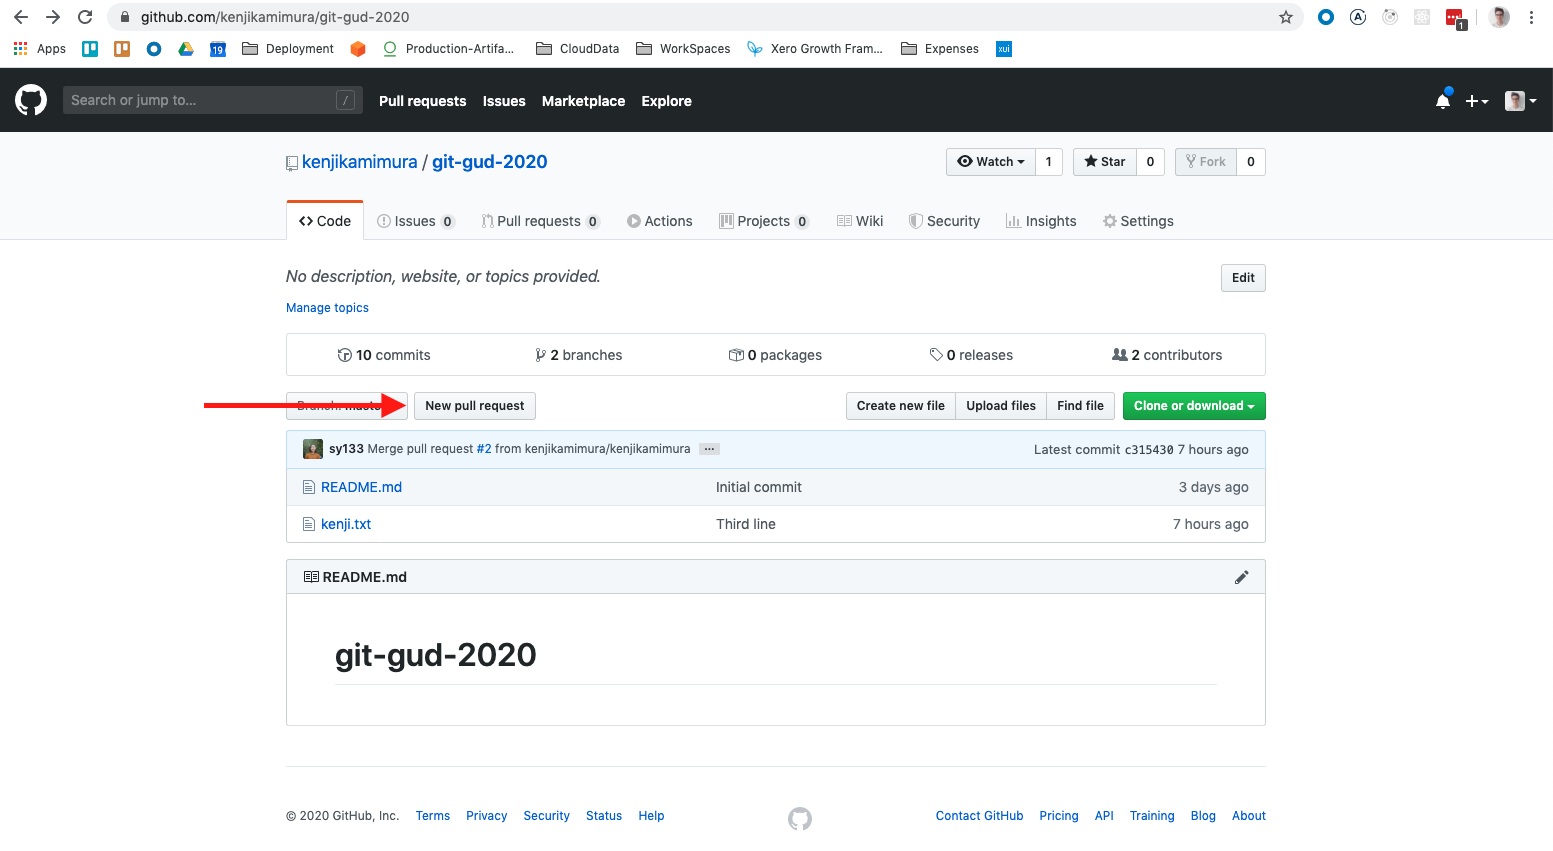
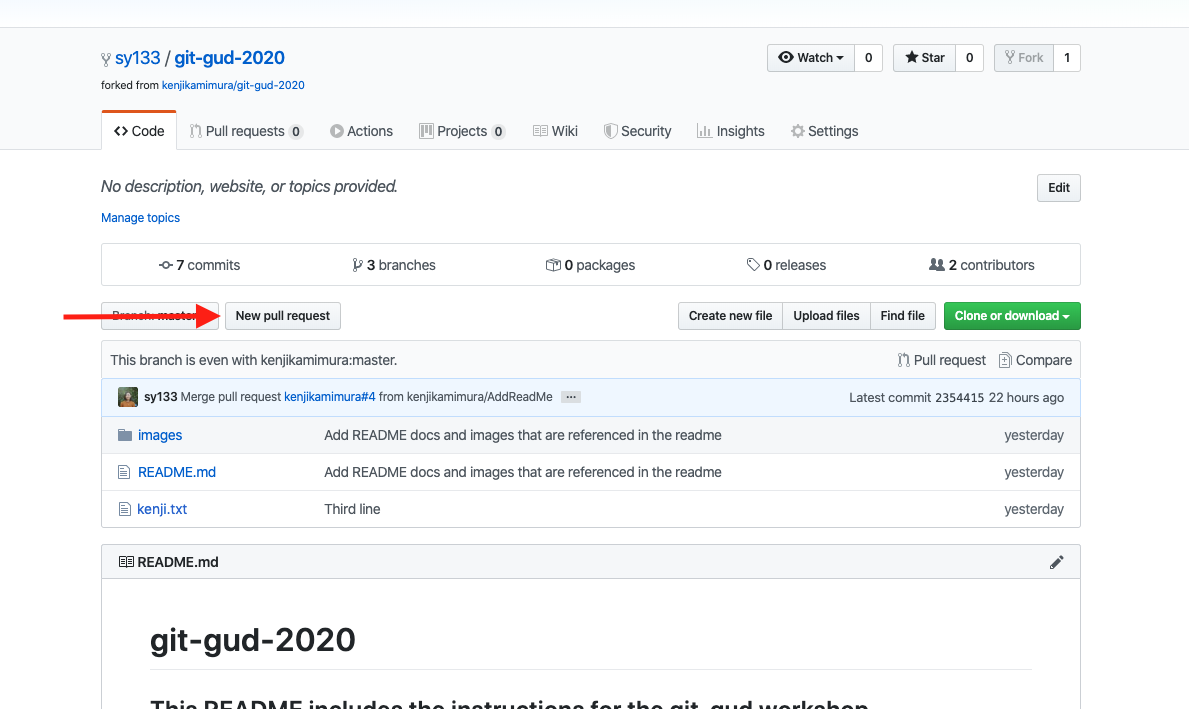
Updated the README to include forks

diff --git a/README.md b/README.md
@@ -11,7 +11,7 @@
 - In your terminal, navigate to where you would like clone the project. Then type the command below. (This will copy the repository in github to your local computer).
 
         git clone https://github.com/kenjikamimura/git-gud-2020.git
-
+        
 - Navigate into the repository:
 
         cd git-gud-2020
@@ -97,29 +97,27 @@ Type the command below.
 
 ## **Collaboration**
 
-## 11. Create a branch
+## 11. Push your changes to your fork's remote repository
 
-- In order to collaborate and merge your new changes to the remote repository, you will need to put these new commits onto a new branch (Not the master branch).
-
-        git checkout -b <New Branch Name>
-        e.g: git checkout -b kenjikamimuraBranch
-
-## Push your branch to the remote repository
-
-- The command below will push all the new commits to a new branch in the remote repository.
+- The command below will push all the new commits to the master branch in your forked remote repository.
   (Note: origin is the default name given to the remote repository)
 
-          git push origin <branch name>
-          e.g: git push origin kenjikamimuraBranch
+          git push origin master
 
 ## Create the Pull Request
 
-- Navigate to https://github.com/kenjikamimura/git-gud-2020
+- Navigate to your fork URL (e.g. https://github.com/sy133/git-gud-2020)
 - Click on the "New Pull Request" button
   ![NewPR](./images/NewPullRequestButton.png "New PR")
 
-- Change the branch you wish to make the pull request from to the branch you just pushed
+- Check the fork you wish to make the pull request from is your personal forked repository master branch
   ![NewPRPage](./images/NewPullRequestPage.png "New PR Page")
 
 - Click the green "Create pull request" button.
-- Congratulations, you have successfully made a Pull Request to the remote repository. Now you will have to wait until the owner of the repository approves and merges your pull request. 
+- Congratulations, you have successfully made a Pull Request to the remote repository. Now you will have to wait until the owner of the repository approves and merges your pull request.
+
+## Seeing your changes
+
+- Once your changes have been approved and merged, you can see your changes and other people's changes to the remote repository on https://github.com/kenjikamimura/git-gud-2020
+
+- These changes are now part of the source of truth!
